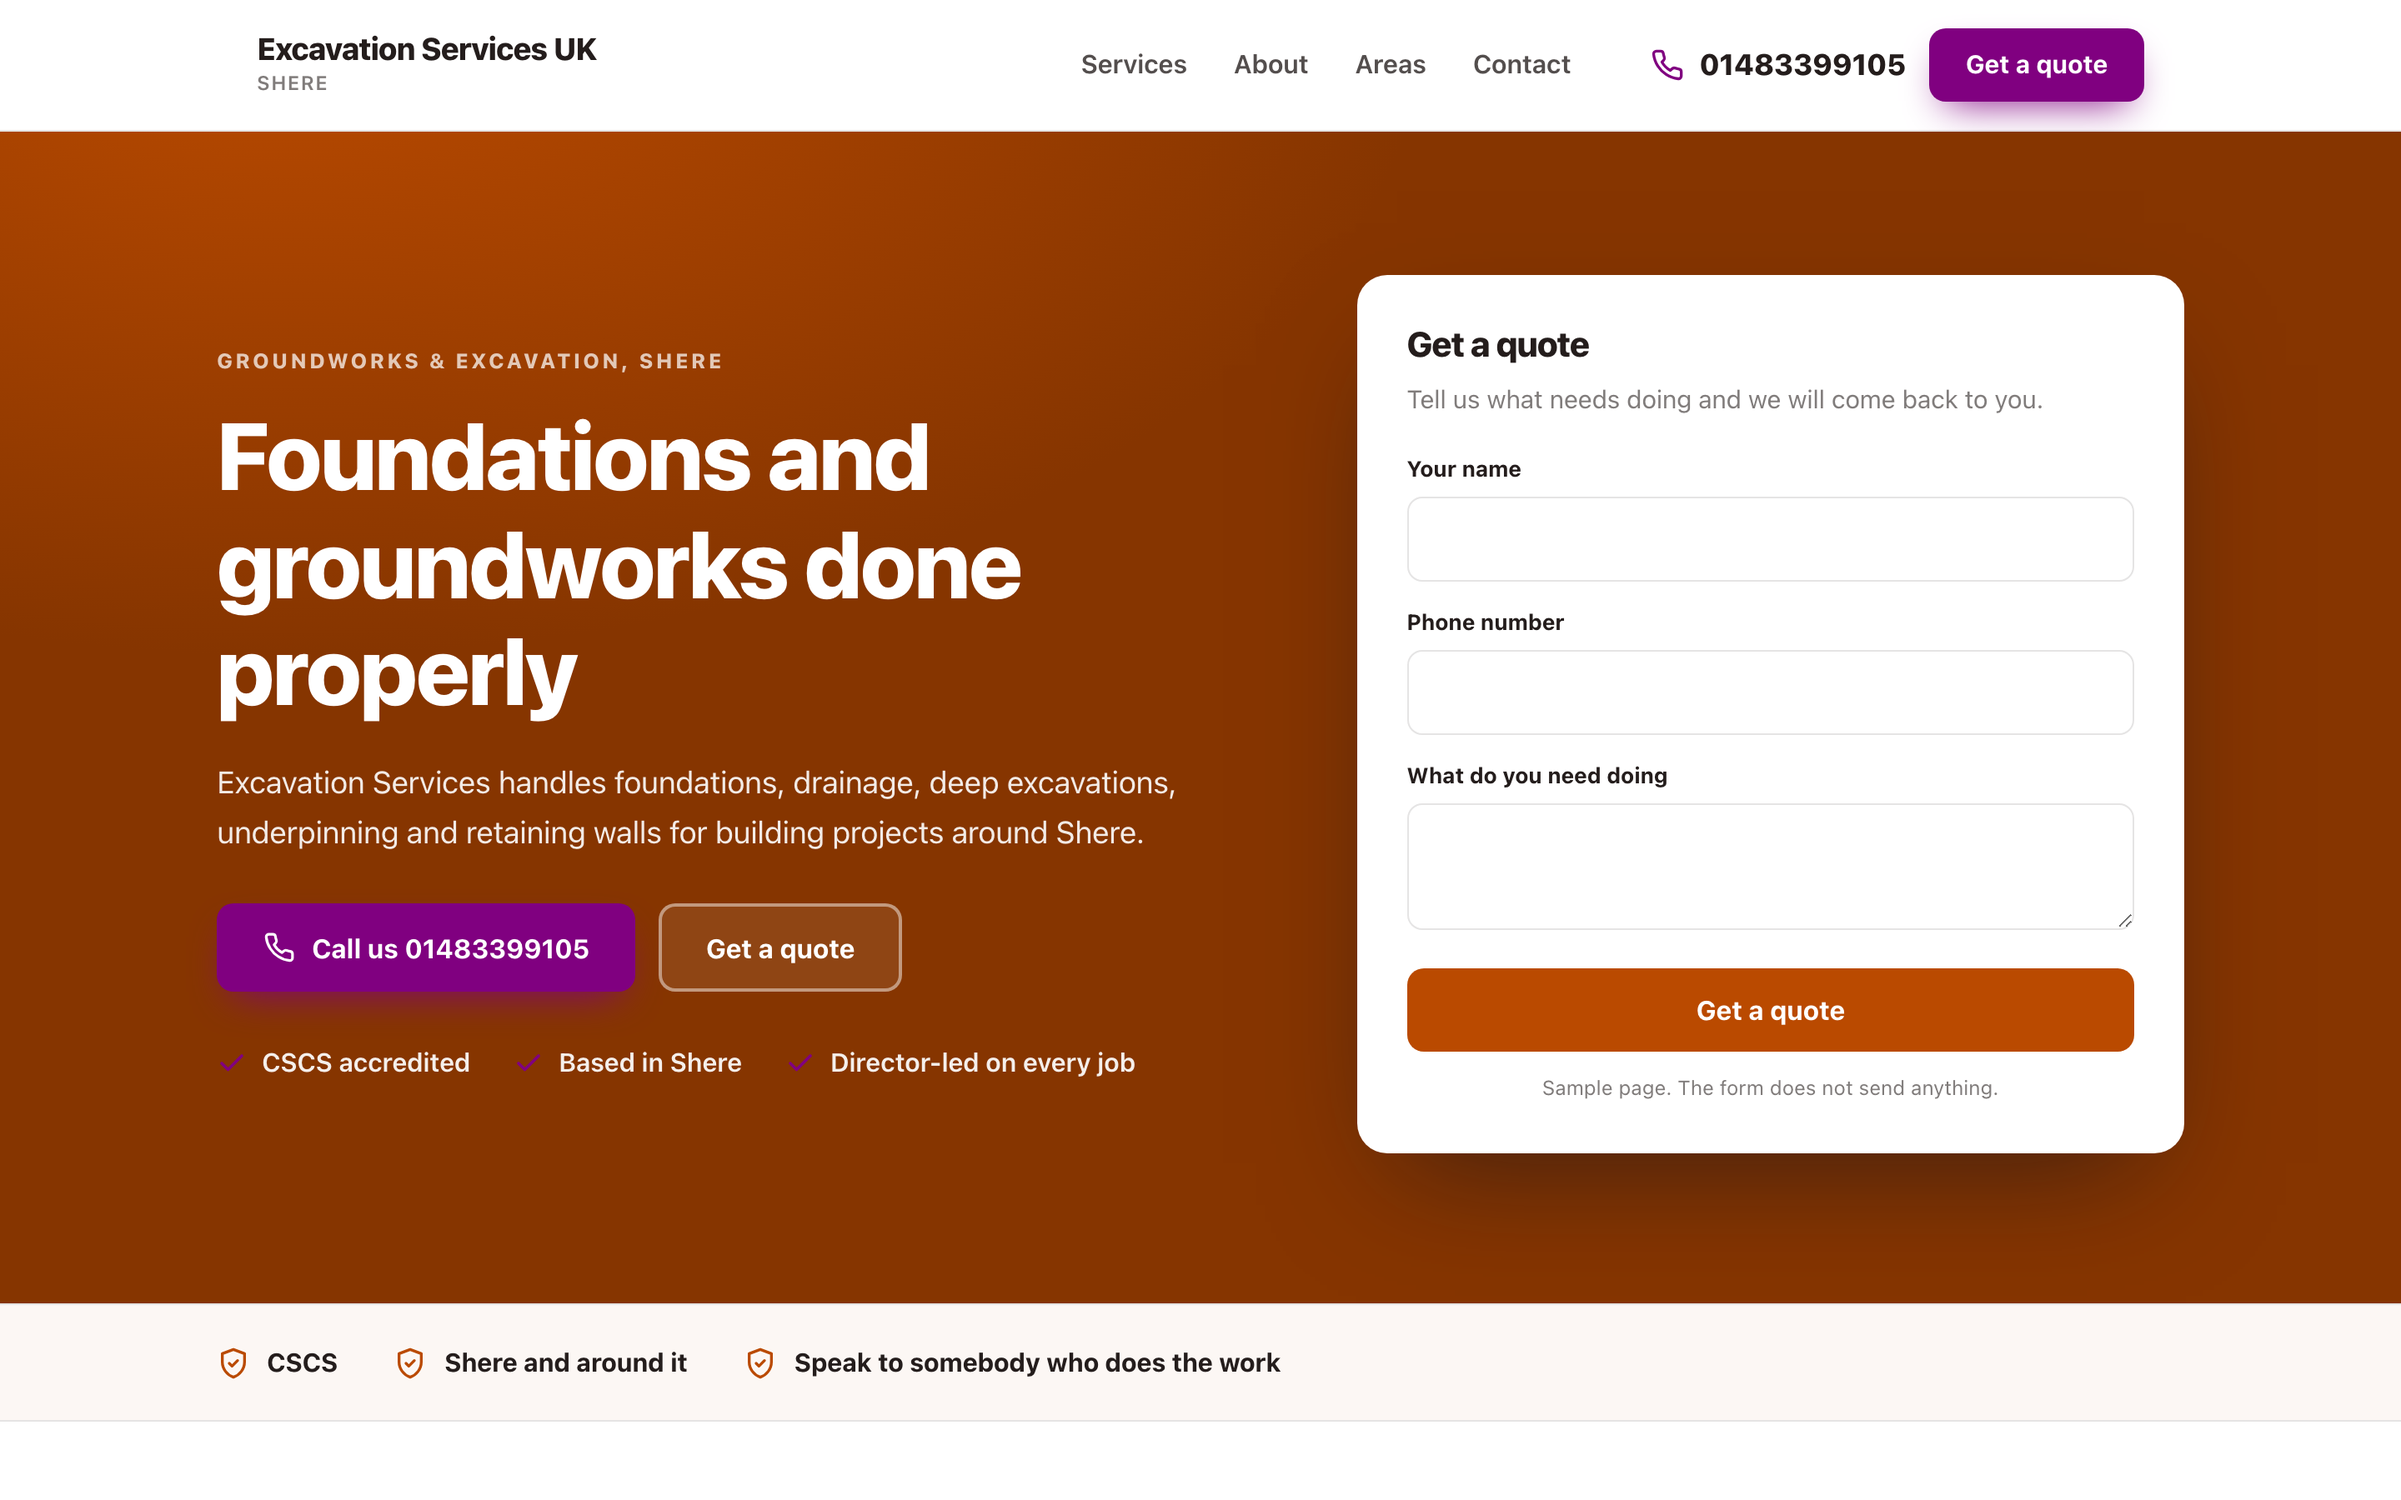
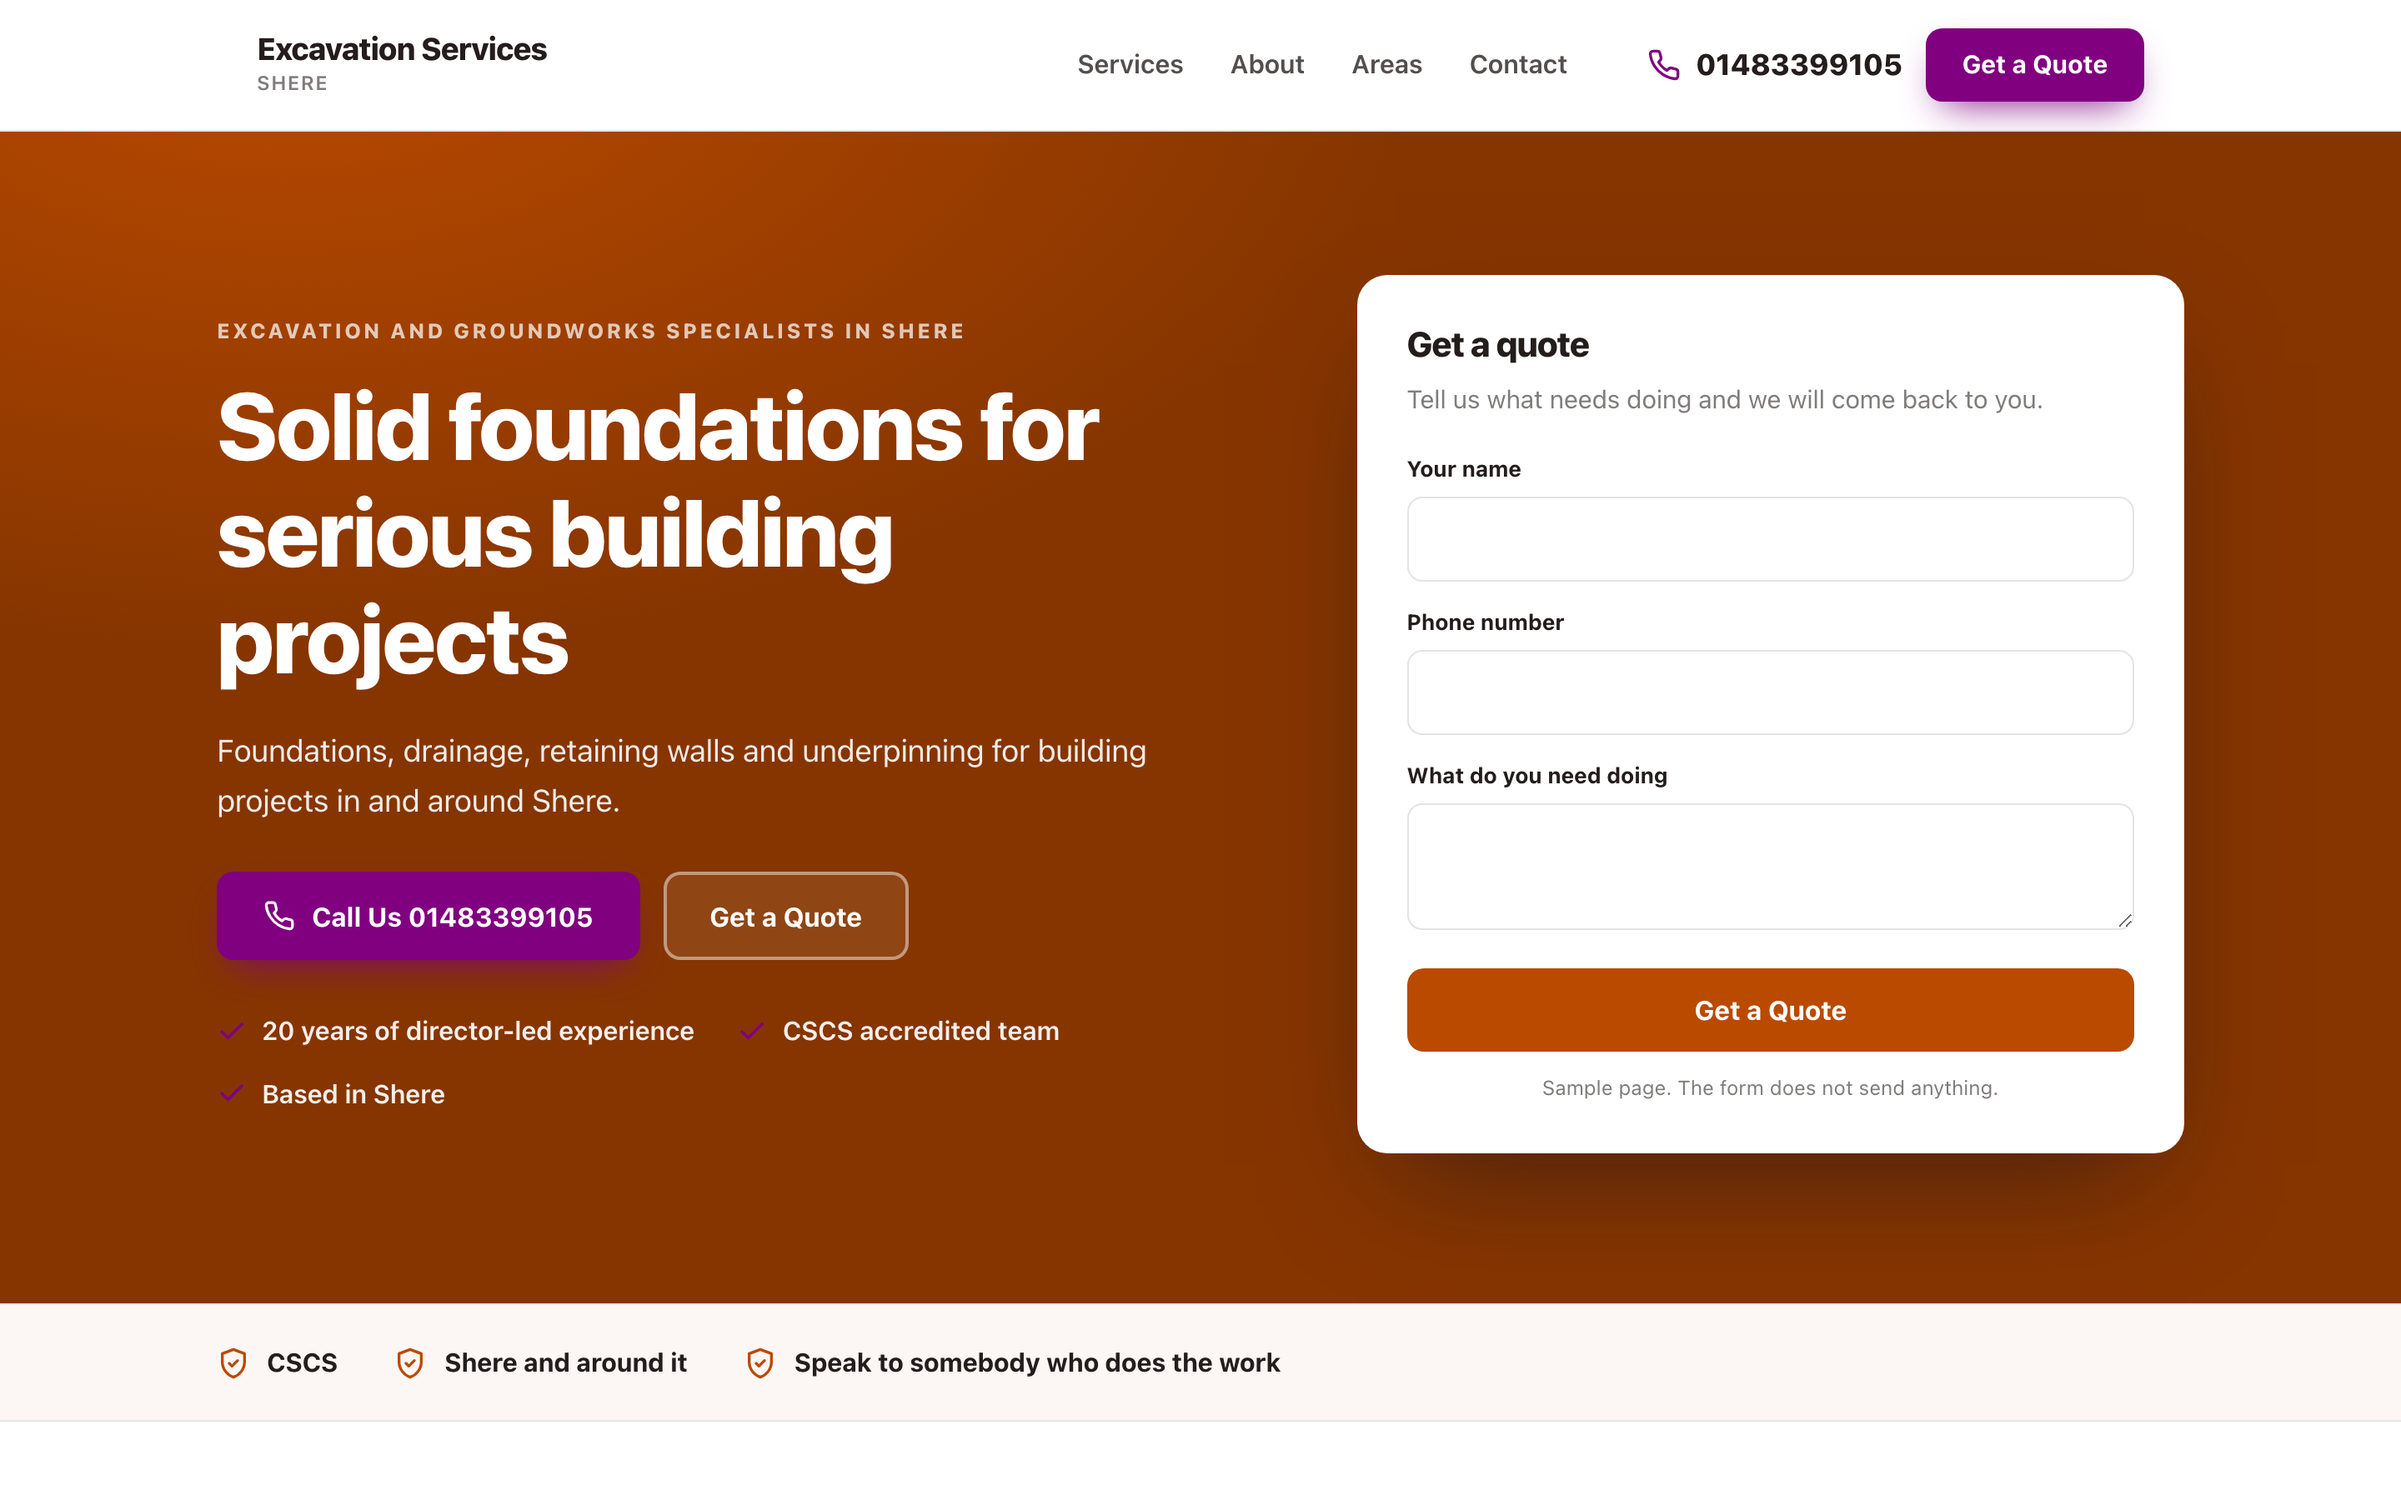
Sample homepage for Excavation Services

diff --git a/docs/90de26ec21/index.html b/docs/90de26ec21/index.html
@@ -4,12 +4,13 @@
 <meta charset="utf-8">
 <meta name="viewport" content="width=device-width, initial-scale=1">
 <meta name="robots" content="noindex,nofollow">
-<title>Excavation Services UK sample homepage</title>
-<meta name="description" content="Excavation Services handles foundations, drainage, deep excavations, underpinning and retaining walls for building projects around Shere.">
+<meta name="aso-build" content="">
+<title>Excavation Services sample homepage</title>
+<meta name="description" content="Foundations, drainage, retaining walls and underpinning for building projects in and around Shere.">
 <link rel="canonical" href="https://markygff.github.io/aso-mockups/90de26ec21/">
 <meta property="og:type" content="website">
-<meta property="og:title" content="Excavation Services UK sample homepage">
-<meta property="og:description" content="Excavation Services handles foundations, drainage, deep excavations, underpinning and retaining walls for building projects around Shere.">
+<meta property="og:title" content="Excavation Services sample homepage">
+<meta property="og:description" content="Foundations, drainage, retaining walls and underpinning for building projects in and around Shere.">
 <meta property="og:url" content="https://markygff.github.io/aso-mockups/90de26ec21/">
 <style>
 :root{
@@ -52,7 +53,8 @@ p{margin:0}
 .nav{display:flex;gap:28px;margin-left:auto;font-weight:600;font-size:.97rem;color:var(--ink)}
 .nav span{opacity:.78}
 .header-cta{display:flex;align-items:center;gap:14px;margin-left:28px}
-.tel{display:flex;align-items:center;gap:9px;font-weight:800;font-size:1.1rem;color:var(--ink)}
+.tel{display:flex;align-items:center;gap:9px;font-weight:800;font-size:1.1rem;
+     color:var(--ink);text-decoration:none}
 .tel svg{width:20px;height:20px;color:var(--accent)}
 .header-cta .btn{padding:12px 20px;font-size:.95rem}
 
@@ -120,15 +122,15 @@ p{margin:0}
   <div class="wrap header-in">
     <div class="brand">
       <div>
-        <div class="brand-name">Excavation Services UK</div>
+        <div class="brand-name">Excavation Services</div>
 <div class="brand-sub">Shere</div>      </div>
     </div>
     <nav class="nav">
       <span>Services</span><span>About</span><span>Areas</span><span>Contact</span>
     </nav>
     <div class="header-cta">
-      <span class="tel"><svg viewBox="0 0 24 24" fill="none" stroke="currentColor" stroke-width="2" stroke-linecap="round" stroke-linejoin="round" aria-hidden="true"><path d="M22 16.9v3a2 2 0 0 1-2.2 2 19.8 19.8 0 0 1-8.6-3.1 19.5 19.5 0 0 1-6-6 19.8 19.8 0 0 1-3.1-8.7A2 2 0 0 1 4.1 2h3a2 2 0 0 1 2 1.7c.1 1 .4 1.9.7 2.8a2 2 0 0 1-.5 2.1L8.1 9.9a16 16 0 0 0 6 6l1.3-1.2a2 2 0 0 1 2.1-.5c.9.3 1.8.6 2.8.7a2 2 0 0 1 1.7 2z"/></svg><span>01483399105</span></span>
-      <span class="btn btn-accent">Get a quote</span>
+      <a class="tel" href="tel:+441483399105"><svg viewBox="0 0 24 24" fill="none" stroke="currentColor" stroke-width="2" stroke-linecap="round" stroke-linejoin="round" aria-hidden="true"><path d="M22 16.9v3a2 2 0 0 1-2.2 2 19.8 19.8 0 0 1-8.6-3.1 19.5 19.5 0 0 1-6-6 19.8 19.8 0 0 1-3.1-8.7A2 2 0 0 1 4.1 2h3a2 2 0 0 1 2 1.7c.1 1 .4 1.9.7 2.8a2 2 0 0 1-.5 2.1L8.1 9.9a16 16 0 0 0 6 6l1.3-1.2a2 2 0 0 1 2.1-.5c.9.3 1.8.6 2.8.7a2 2 0 0 1 1.7 2z"/></svg><span>01483399105</span></a>
+      <span class="btn btn-accent">Get a Quote</span>
     </div>
   </div>
 </header>
@@ -137,15 +139,15 @@ p{margin:0}
   <div class="hero-plain"></div>
   <div class="wrap hero-in">
     <div>
-      <p class="eyebrow">Groundworks &amp; Excavation, Shere</p>
-      <h1>Foundations and groundworks done properly</h1>
-      <p class="hero-sub">Excavation Services handles foundations, drainage, deep excavations, underpinning and retaining walls for building projects around Shere.</p>
+      <p class="eyebrow">Excavation and groundworks specialists in Shere</p>
+      <h1>Solid foundations for serious building projects</h1>
+      <p class="hero-sub">Foundations, drainage, retaining walls and underpinning for building projects in and around Shere.</p>
       <div class="hero-actions">
-        <span class="btn btn-accent"><svg viewBox="0 0 24 24" fill="none" stroke="currentColor" stroke-width="2" stroke-linecap="round" stroke-linejoin="round" aria-hidden="true"><path d="M22 16.9v3a2 2 0 0 1-2.2 2 19.8 19.8 0 0 1-8.6-3.1 19.5 19.5 0 0 1-6-6 19.8 19.8 0 0 1-3.1-8.7A2 2 0 0 1 4.1 2h3a2 2 0 0 1 2 1.7c.1 1 .4 1.9.7 2.8a2 2 0 0 1-.5 2.1L8.1 9.9a16 16 0 0 0 6 6l1.3-1.2a2 2 0 0 1 2.1-.5c.9.3 1.8.6 2.8.7a2 2 0 0 1 1.7 2z"/></svg>Call us 01483399105</span>
-        <span class="btn btn-ghost">Get a quote</span>
+        <span class="btn btn-accent"><svg viewBox="0 0 24 24" fill="none" stroke="currentColor" stroke-width="2" stroke-linecap="round" stroke-linejoin="round" aria-hidden="true"><path d="M22 16.9v3a2 2 0 0 1-2.2 2 19.8 19.8 0 0 1-8.6-3.1 19.5 19.5 0 0 1-6-6 19.8 19.8 0 0 1-3.1-8.7A2 2 0 0 1 4.1 2h3a2 2 0 0 1 2 1.7c.1 1 .4 1.9.7 2.8a2 2 0 0 1-.5 2.1L8.1 9.9a16 16 0 0 0 6 6l1.3-1.2a2 2 0 0 1 2.1-.5c.9.3 1.8.6 2.8.7a2 2 0 0 1 1.7 2z"/></svg>Call Us 01483399105</span>
+        <span class="btn btn-ghost">Get a Quote</span>
       </div>
       <ul class="hero-bullets">
-<li><svg viewBox="0 0 24 24" fill="none" stroke="currentColor" stroke-width="2.4" stroke-linecap="round" stroke-linejoin="round" aria-hidden="true"><path d="M20 6 9 17l-5-5"/></svg><span>CSCS accredited</span></li><li><svg viewBox="0 0 24 24" fill="none" stroke="currentColor" stroke-width="2.4" stroke-linecap="round" stroke-linejoin="round" aria-hidden="true"><path d="M20 6 9 17l-5-5"/></svg><span>Based in Shere</span></li><li><svg viewBox="0 0 24 24" fill="none" stroke="currentColor" stroke-width="2.4" stroke-linecap="round" stroke-linejoin="round" aria-hidden="true"><path d="M20 6 9 17l-5-5"/></svg><span>Director-led on every job</span></li>      </ul>
+<li><svg viewBox="0 0 24 24" fill="none" stroke="currentColor" stroke-width="2.4" stroke-linecap="round" stroke-linejoin="round" aria-hidden="true"><path d="M20 6 9 17l-5-5"/></svg><span>20 years of director-led experience</span></li><li><svg viewBox="0 0 24 24" fill="none" stroke="currentColor" stroke-width="2.4" stroke-linecap="round" stroke-linejoin="round" aria-hidden="true"><path d="M20 6 9 17l-5-5"/></svg><span>CSCS accredited team</span></li><li><svg viewBox="0 0 24 24" fill="none" stroke="currentColor" stroke-width="2.4" stroke-linecap="round" stroke-linejoin="round" aria-hidden="true"><path d="M20 6 9 17l-5-5"/></svg><span>Based in Shere</span></li>      </ul>
     </div>
     <div class="quote-card">
       <h3>Get a quote</h3>
@@ -153,7 +155,7 @@ p{margin:0}
       <div class="field"><label>Your name</label><input type="text" disabled></div>
       <div class="field"><label>Phone number</label><input type="tel" disabled></div>
       <div class="field"><label>What do you need doing</label><textarea disabled></textarea></div>
-      <span class="btn btn-primary">Get a quote</span>
+      <span class="btn btn-primary">Get a Quote</span>
       <p class="sample-note">Sample page. The form does not send anything.</p>
     </div>
   </div>
@@ -171,29 +173,24 @@ p{margin:0}
   <div class="wrap">
     <div class="services-head">
       <p class="eyebrow">What we do</p>
-      <h2>Excavation Services UK, Shere</h2>
-      <p>Excavation Services handles foundations, drainage, deep excavations, underpinning and retaining walls for building projects around Shere.</p>
+      <h2>Excavation Services, Shere</h2>
+      <p>Foundations, drainage, retaining walls and underpinning for building projects in and around Shere.</p>
     </div>
     <div class="grid">
       <article class="card">
         <div class="icon"><svg viewBox="0 0 24 24" fill="none" stroke="currentColor" stroke-width="2" stroke-linecap="round" stroke-linejoin="round" aria-hidden="true"><path d="M14.7 6.3a4 4 0 0 0 5.3 5.3l-8 8a3 3 0 0 1-4.2-4.2z"/><path d="m14.7 6.3 3-3"/></svg></div>
-        <h3>Foundations</h3>
-        <p>We design and build foundations for everything from extensions to multi-unit sites.</p>
+        <h3>projects</h3>
+        <p>Basements, retaining walls, foundations and temporary works, from design to completion.</p>
       </article>
       <article class="card">
         <div class="icon"><svg viewBox="0 0 24 24" fill="none" stroke="currentColor" stroke-width="2" stroke-linecap="round" stroke-linejoin="round" aria-hidden="true"><path d="M13 2 4 14h7l-1 8 9-12h-7z"/></svg></div>
-        <h3>Drainage &amp; Services</h3>
-        <p>We coordinate and install drainage, storage systems and other services on site.</p>
+        <h3>safety</h3>
+        <p>Every project runs to CDM Regulations 2015, with risk assessments and CSCS-qualified staff.</p>
       </article>
       <article class="card">
         <div class="icon"><svg viewBox="0 0 24 24" fill="none" stroke="currentColor" stroke-width="2" stroke-linecap="round" stroke-linejoin="round" aria-hidden="true"><path d="M3 10.5 12 3l9 7.5"/><path d="M5 9.5V21h14V9.5"/><path d="M10 21v-6h4v6"/></svg></div>
-        <h3>Deep Excavations and Temporary Works</h3>
-        <p>We handle temporary works and deep excavations, including sites close to neighbouring buildings.</p>
-      </article>
-      <article class="card">
-        <div class="icon"><svg viewBox="0 0 24 24" fill="none" stroke="currentColor" stroke-width="2" stroke-linecap="round" stroke-linejoin="round" aria-hidden="true"><path d="M4 20 15 9"/><path d="m14 4 6 6-3 3-6-6z"/><path d="m3 15 6 6"/></svg></div>
-        <h3>Underpinning</h3>
-        <p>We carry out underpinning work as part of your wider groundworks project.</p>
+        <h3>plant hire</h3>
+        <p>Excavators, dumpers and a telehandler for hire locally, with or without an operator.</p>
       </article>
     </div>
   </div>
@@ -201,7 +198,7 @@ p{margin:0}
 
 <footer class="footer">
   <div class="wrap footer-in">
-    <span>Sample built for Excavation Services UK from your public website. Not live. Tell us and we delete it.</span>
+    <span>Sample built for Excavation Services from your public website. Not live. Tell us and we delete it.</span>
     <span>excavationservices.co.uk</span>
   </div>
 </footer>
